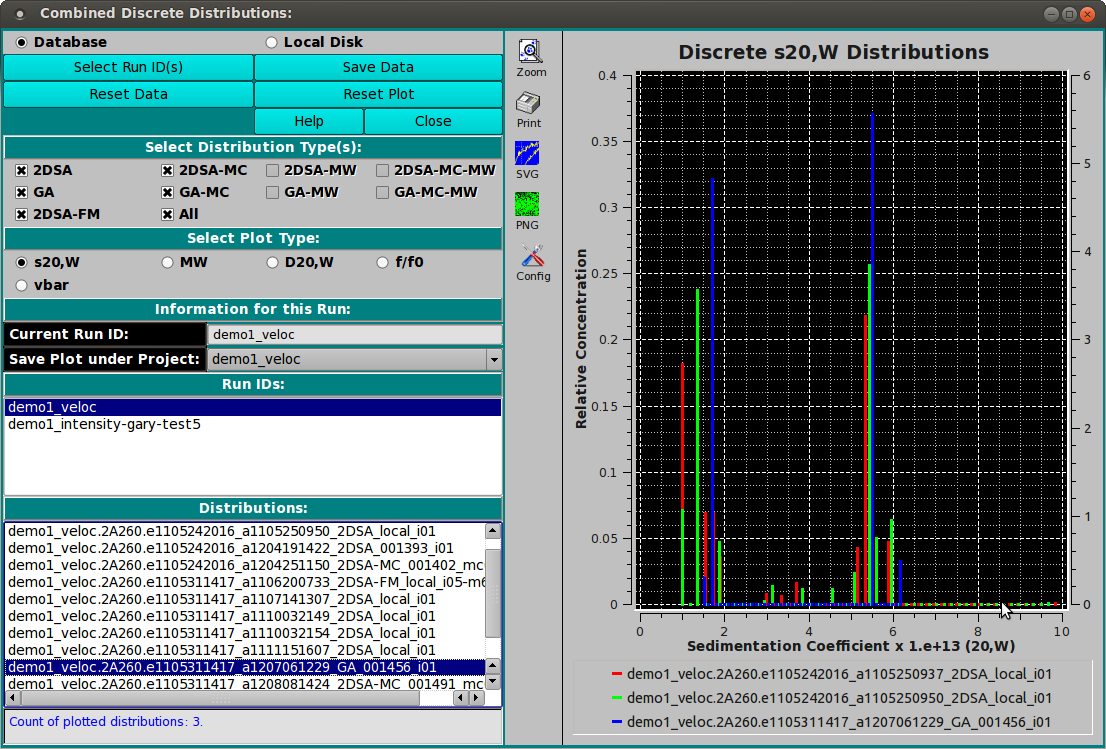
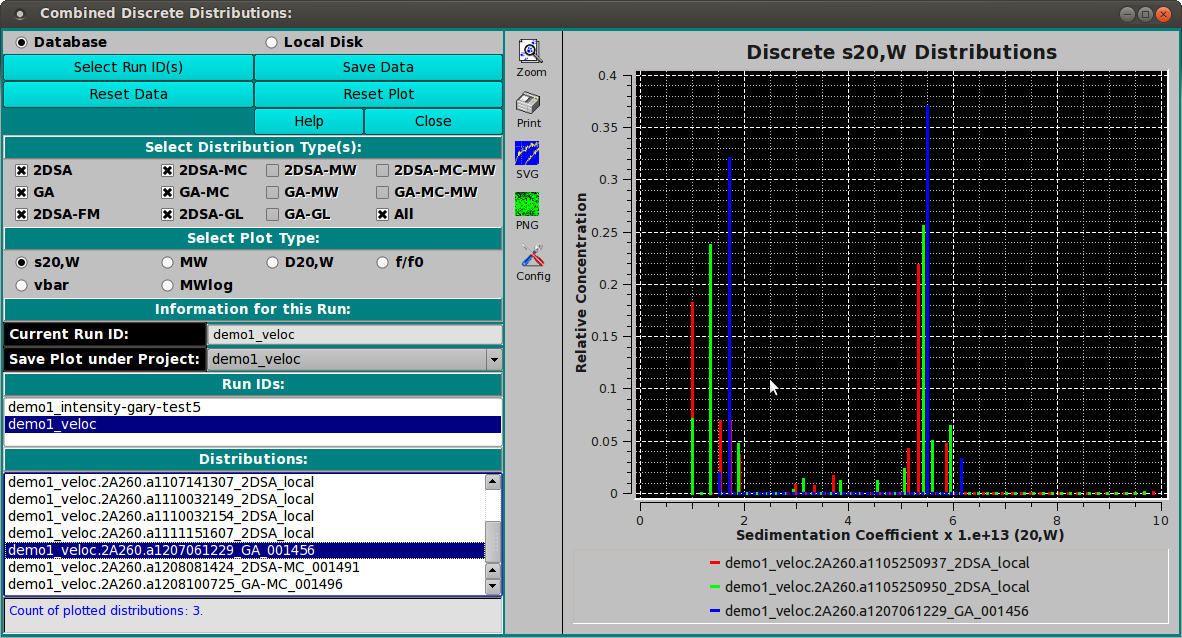
some fixes and add of Log-MW
git-svn-id: svn://bcf2.uthscsa.edu/ultrascan3/trunk@1408 0b344138-67e3-44e0-be2b-e1ba3e4701c6

diff --git a/programs/us_ddist_combine/us_ddist_combine.cpp b/programs/us_ddist_combine/us_ddist_combine.cpp
@@ -80,6 +80,8 @@ US_DDistr_Combine::US_DDistr_Combine() : US_Widgets()
    QLayout* lo_gamw     = us_checkbox( tr( "GA-MW" ),      ck_gamw,     false );
    QLayout* lo_gamcmw   = us_checkbox( tr( "GA-MC-MW" ),   ck_gamcmw,   false );
    QLayout* lo_2dsafm   = us_checkbox( tr( "2DSA-FM" ),    ck_2dsafm,   false );
+   QLayout* lo_2dsagl   = us_checkbox( tr( "2DSA-GL" ),    ck_2dsagl,   false );
+   QLayout* lo_gagl     = us_checkbox( tr( "GA-GL" ),      ck_gagl,     false );
    QLayout* lo_dtall    = us_checkbox( tr( "All" ),        ck_dtall,    false );
 
    QButtonGroup* sel_plt  = new QButtonGroup( this );
@@ -88,11 +90,13 @@ US_DDistr_Combine::US_DDistr_Combine() : US_Widgets()
    QGridLayout* lo_pltDw  = us_radiobutton( tr( "D20,W" ), rb_pltDw,    false );
    QGridLayout* lo_pltff0 = us_radiobutton( tr( "f/f0"  ), rb_pltff0,   false );
    QGridLayout* lo_pltvb  = us_radiobutton( tr( "vbar"  ), rb_pltvb,    false );
+   QGridLayout* lo_pltMWl = us_radiobutton( tr( "MWlog" ), rb_pltMWl,   false );
    sel_plt->addButton( rb_pltsw,  0 );
    sel_plt->addButton( rb_pltMW,  1 );
    sel_plt->addButton( rb_pltDw,  2 );
    sel_plt->addButton( rb_pltff0, 3 );
    sel_plt->addButton( rb_pltvb,  4 );
+   sel_plt->addButton( rb_pltMWl, 5 );
 
    le_runid      = us_lineedit( "(current run ID)", -1, true );
    cmb_svproj    = us_comboBox();
@@ -120,13 +124,16 @@ US_DDistr_Combine::US_DDistr_Combine() : US_Widgets()
    leftLayout->addLayout( lo_gamw,      row,   4, 1, 2 );
    leftLayout->addLayout( lo_gamcmw,    row++, 6, 1, 2 );
    leftLayout->addLayout( lo_2dsafm,    row,   0, 1, 2 );
-   leftLayout->addLayout( lo_dtall,     row++, 2, 1, 6 );
+   leftLayout->addLayout( lo_2dsagl,    row,   2, 1, 2 );
+   leftLayout->addLayout( lo_gagl,      row,   4, 1, 2 );
+   leftLayout->addLayout( lo_dtall,     row++, 6, 1, 6 );
    leftLayout->addWidget( lb_plottype,  row++, 0, 1, 8 );
    leftLayout->addLayout( lo_pltsw,     row,   0, 1, 2 );
    leftLayout->addLayout( lo_pltMW,     row,   2, 1, 2 );
    leftLayout->addLayout( lo_pltDw,     row,   4, 1, 2 );
    leftLayout->addLayout( lo_pltff0,    row++, 6, 1, 2 );
-   leftLayout->addLayout( lo_pltvb,     row++, 0, 1, 8 );
+   leftLayout->addLayout( lo_pltvb,     row,   0, 1, 8 );
+   leftLayout->addLayout( lo_pltMWl,    row++, 2, 1, 8 );
    leftLayout->addWidget( lb_runinfo,   row++, 0, 1, 8 );
    leftLayout->addWidget( lb_runid,     row,   0, 1, 3 );
    leftLayout->addWidget( le_runid,     row++, 3, 1, 5 );
@@ -189,6 +196,8 @@ US_DDistr_Combine::US_DDistr_Combine() : US_Widgets()
             this,        SLOT(   changedPlotX( bool ) ) );
    connect( rb_pltvb,    SIGNAL( toggled     ( bool ) ),
             this,        SLOT(   changedPlotX( bool ) ) );
+   connect( rb_pltMWl,   SIGNAL( toggled     ( bool ) ),
+            this,        SLOT(   changedPlotX( bool ) ) );
 
    connect( lw_runids,   SIGNAL( currentRowChanged( int ) ),
             this,        SLOT(   runid_select(      int ) ) );
@@ -200,11 +209,9 @@ US_DDistr_Combine::US_DDistr_Combine() : US_Widgets()
          tr( "Sedimentation Coefficient x 1e+13 (corr. for 20,W)" ),
          tr( "Relative Concentration" ) );
 
-   data_plot1->setMinimumSize( 540, 400 );
-   data_plot1->enableAxis  ( QwtPlot::yRight, true );
+   data_plot1->setMinimumSize( 560, 400 );
    data_plot1->setAxisScale( QwtPlot::xBottom, 1.0,  10.0 );
    data_plot1->setAxisScale( QwtPlot::yLeft,   0.0, 100.0 );
-   data_plot1->setAxisScale( QwtPlot::yRight,  0.0,   6.0 );
    QwtPlotGrid* grid = us_grid( data_plot1 );
    grid->enableXMin( true );
    grid->enableYMin( true );
@@ -241,7 +248,7 @@ US_DDistr_Combine::US_DDistr_Combine() : US_Widgets()
    te_status  ->setMaximumHeight( ( hh * 3 ) / 2 );
 
    adjustSize();
-   resize( 1160, 580 );
+   resize( 1180, 580 );
    reset_data();
 }
 
@@ -295,29 +302,20 @@ if(dbg_level>0)
    }
 
    for ( int ii = 0; ii < nrunids; ii++ )
-   {
+   {  // Add run IDs to list and to project combo box
       lw_runids->addItem( runids[ ii ] );
       cmb_svproj->addItem( runids[ ii ] );
    }
 
    cmb_svproj->addItem( "All" );
-
-   int nlitems = lw_runids->count();
    le_runid->setText( runids[ 0 ] );
-
-   if ( nrunids == nlitems )
-   {
-      adjustSize();
-   }
-
    pb_resetd->setEnabled( true );
-
    QStringList methods;
+
    for ( int ii = 0; ii < distros.count(); ii++ )
-   {
+   {  // Build a list of unique methods of distros
       QString method = distros[ ii ].mdescr.section( ".", -1, -1 )
                                            .section( "_", -3, -3 );
-
       if ( ! methods.contains( method ) )
          methods << method;
    }
@@ -331,6 +329,8 @@ if(dbg_level>0)
    bool hv_gamw     = methods.contains( "GA-MW"      );
    bool hv_gamcmw   = methods.contains( "GA-MC-MW"   );
    bool hv_2dsafm   = methods.contains( "2DSA-FM"    );
+   bool hv_2dsagl   = methods.contains( "2DSA-GL"    );
+   bool hv_gagl     = methods.contains( "GA-GL"      );
    bool hv_dtall    = methods.size() > 0;
 
    ck_2dsa    ->setEnabled( hv_2dsa     );
@@ -342,6 +342,8 @@ if(dbg_level>0)
    ck_gamw    ->setEnabled( hv_gamw     );
    ck_gamcmw  ->setEnabled( hv_gamcmw   );
    ck_2dsafm  ->setEnabled( hv_2dsafm   );
+   ck_2dsagl  ->setEnabled( hv_2dsagl   );
+   ck_gagl    ->setEnabled( hv_gagl     );
    ck_dtall   ->setEnabled( hv_dtall    );
 
    ck_2dsa    ->setChecked( hv_2dsa     );
@@ -353,6 +355,8 @@ if(dbg_level>0)
    ck_gamw    ->setChecked( hv_gamw     );
    ck_gamcmw  ->setChecked( hv_gamcmw   );
    ck_2dsafm  ->setChecked( hv_2dsafm   );
+   ck_2dsagl  ->setChecked( hv_2dsagl   );
+   ck_gagl    ->setChecked( hv_gagl     );
    ck_dtall   ->setChecked( hv_dtall    );
 }
 
@@ -431,6 +435,11 @@ DbgLv(1) << "pDa:  titleY" << titleY;
    {
       titleP = tr( "Discrete Vbar Distributions" );
       titleX = tr( "Vbar (Specific Density)" );
+   }
+   else if ( rb_pltMWl->isChecked() )
+   {
+      titleP = tr( "Discrete Log of Molecular Weight Distributions" );
+      titleX = tr( "Molecular Weight (Log, Dalton)" );
    }
 DbgLv(1) << "pDa:  titleP" << titleP;
 DbgLv(1) << "pDa:  titleX" << titleX;
@@ -512,6 +521,12 @@ void US_DDistr_Combine::save( void )
       sanode1       = "combo-distrib-vbar";
       sanode2       = "combo-vcdat-vbar";
       sanode3       = "combo-listincl-vbar";
+   }
+   else if ( xtype == 5 )
+   {
+      sanode1       = "combo-distrib-mwl";
+      sanode2       = "combo-vcdat-mwl";
+      sanode3       = "combo-listincl-mwl";
    }
    QString fnamsvg  = annode + "." + trnode + "." + sanode1 + ".svg"; 
    QString fnampng  = annode + "." + trnode + "." + sanode1 + ".png"; 
@@ -686,10 +701,12 @@ DbgLv(1) << "RunIDSel:runID" << runID << "distrsize" << distros.size();
       if ( ck_2dsamw  ->isChecked() )  methods << "2DSA-MW";
       if ( ck_2dsamcmw->isChecked() )  methods << "2DSA-MC-MW";
       if ( ck_ga      ->isChecked() )  methods << "GA";
-      if ( ck_gamc    ->isChecked() )  methods << "GA_MC";
+      if ( ck_gamc    ->isChecked() )  methods << "GA-MC";
       if ( ck_gamw    ->isChecked() )  methods << "GA-MW";
-      if ( ck_gamcmw  ->isChecked() )  methods << "GA-MC_MW";
+      if ( ck_gamcmw  ->isChecked() )  methods << "GA-MC-MW";
       if ( ck_2dsafm  ->isChecked() )  methods << "2DSA-FM";
+      if ( ck_2dsagl  ->isChecked() )  methods << "2DSA-GL";
+      if ( ck_gagl    ->isChecked() )  methods << "GA-GL";
    }
 
    lw_models ->clear();
@@ -707,7 +724,7 @@ DbgLv(1) << "RunIDSel:  ii runID" << ii << distros[ii].runID;
             if ( ! methods.contains( meth ) )  continue;
          }
 
-         lw_models ->addItem( mdesc );
+         lw_models ->addItem( distribID( mdesc ) );
       }
    }
 
@@ -717,7 +734,7 @@ DbgLv(1) << "RunIDSel:  ii runID" << ii << distros[ii].runID;
    }
 }
 
-// Triple selected
+// Model distribution selected
 void US_DDistr_Combine::model_select( int row )
 {
 DbgLv(1) << "ModelSel:row" << row;
@@ -793,32 +810,22 @@ void US_DDistr_Combine::possibleColors()
    return;
 }
 
-// Return an expanded version ("1 / A / 260") of a triple string ("1A260")
-QString US_DDistr_Combine::expandedTriple( QString ctriple )
+// Return a distribution ID string that is a shortened model description
+QString US_DDistr_Combine::distribID( QString mdescr )
 {
-   QString etriple = ctriple;
+   QString runID   = mdescr.section( ".",  0, -3 );
+           runID   = runID.length() < 13 ? runID : runID.left( 12 ) + "(++)";
+   QString triple  = mdescr.section( ".", -2, -2 );
+   QString iterID  = mdescr.section( ".", -1, -1 );
+   QString andate  = iterID.section( "_",  1,  1 );
+   QString method  = iterID.section( "_",  2,  2 );
+           iterID  = ( method != "2DSA-FM" )
+                   ? iterID.section( "_", -2, -2 )
+                   : iterID.section( "_", -1, -1 );
+   QString distrID = runID + "." + triple + "." + andate
+                           + "_" + method + "_" + iterID;
 
-   if ( ! etriple.contains( " / " ) )
-      etriple = etriple.left( 1 ) + " / " +
-                etriple.mid( 1, 1 ) + " / " +
-                etriple.mid( 2 );
-
-   return etriple;
-}
-
-// Return a collapsed version ("1A260") of a triple string ("1 / A / 260")
-QString US_DDistr_Combine::collapsedTriple( QString etriple )
-{
-   QString ctriple = etriple;
-
-   if ( ctriple.contains( " / " ) )
-      ctriple = ctriple.replace( " / ", "" ).simplified();
-   else if ( ctriple.contains( "/" ) )
-      ctriple = ctriple.replace( "/",   "" ).simplified();
-   else if ( ctriple.contains( "." ) )
-      ctriple = ctriple.replace( ".",   "" ).simplified();
-
-   return ctriple;
+   return distrID;
 }
 
 // Reset Disk_DB control whenever data source is changed in any dialog
@@ -830,6 +837,7 @@ DbgLv(1) << "Upd_Dk_Db isDB" << isDB;
    reset_data();
 }
 
+// Fill in a distribution description object with model and values
 void US_DDistr_Combine::fill_in_desc( DistrDesc& ddesc, int distx )
 {
    if ( ddesc.xvals.size() > 0  &&
@@ -900,6 +908,7 @@ DbgLv(1) << "FID:  (3)ncomps" << ncomps;
       else if ( xtype == 2 )  xval = ddesc.model.components[ jj ].D;
       else if ( xtype == 3 )  xval = ddesc.model.components[ jj ].f_f0;
       else if ( xtype == 4 )  xval = ddesc.model.components[ jj ].vbar20;
+      else if ( xtype == 5 )  xval = log( ddesc.model.components[ jj ].mw );
 
       mxvals << xval;
    }
@@ -984,11 +993,9 @@ void US_DDistr_Combine::write_data( QString& dataFile, QString& listFile,
    {  // Accumulate long descriptions and build header line
       maxnvl     = qMax( maxnvl, pdistrs[ ii ].xvals.size() );
       QString pd = pdisIDs[ ii ];
-      pdlong << pd;
-      
-      QString rd = pd.section( ".",  0, -2 );
-      QString ad = pd.section( ".", -1, -1 ).section( "_", -4, -3 );
-      pd         = rd + "." + ad;
+
+      pdlong << pdistrs[ ii ].mdescr;
+
 DbgLv(1) << "WrDa:  plot" << ii << "pd" << pd;
       line      += pd + ".X " + pd + ".Y"; // X,Y header entries for contributor
       if ( ii < ( nplots - 1 ) )
@@ -1002,8 +1009,8 @@ DbgLv(1) << "WrDa: maxnvl" << maxnvl << "nplots" << nplots;
    char  valfm1[] = "%12.5f %10.5f";
    char  valfm2[] = "%13.4e %9.5f";
    char* valfmt   = valfm1;
-   if ( xtype == 1  ||  xtype == 2 )
-         valfmt   = valfm2;                // Formatting for "MW" or "D"
+   if ( xtype == 1  ||  xtype == 2  || xtype == 5 )
+         valfmt   = valfm2;                // Formatting for "MW"/"D"/"MWlog"
 
    for ( int jj = 0; jj < maxnvl; jj++ )
    {  // Build and write xvalue+concentration data line
@@ -1121,7 +1128,7 @@ int US_DDistr_Combine::distro_by_descr( QString& mdesc )
 
    for ( int ii = 0; ii < distros.count(); ii++ )
    {
-      if ( mdesc == distros[ ii ].mdescr )
+      if ( mdesc == distribID( distros[ ii ].mdescr ) )
       {
          index  = ii;
          break;
@@ -1238,6 +1245,7 @@ DbgLv(1) << "changedPlotX" << on_state;
    bool x_is_Dw    = rb_pltDw ->isChecked();
    bool x_is_ff0   = rb_pltff0->isChecked();
    bool x_is_vb    = rb_pltvb ->isChecked();
+   bool x_is_MWl   = rb_pltMWl->isChecked();
         xtype      = 0;
 
    if ( x_is_sw )
@@ -1270,6 +1278,12 @@ DbgLv(1) << "  PX=Vbar";
       xtype           = 4;
    }
 
+   else if ( x_is_MWl )
+   {
+DbgLv(1) << "  PX=Molec.Wt.log";
+      xtype           = 5;
+   }
+
    int npdis    = pdistrs.size();
    if ( npdis > 0 )
    {  // Re-do plot distros to account for X-type change
@@ -1299,7 +1313,7 @@ DbgLv(1) << "  PX=Vbar";
          fill_in_desc( *pddist, ii );
 
          pdistrs << *pddist;
-         pdisIDs << pddist->mdescr;
+         pdisIDs << distribID( pddist->mdescr );
       }
 
       plot_data();

diff --git a/programs/us_ddist_combine/us_ddist_combine.h b/programs/us_ddist_combine/us_ddist_combine.h
@@ -32,7 +32,7 @@ class US_DDistr_Combine : public US_Widgets
             QVector< double >  yvals;    // Distrib. Y values (concentrations)
             QColor             color;    // Curve color
             int                iters;    // Iterations flag (>0 means MC)
-            int                xtype;    // X type  (0-4 for x,MW,D,ff0,vbar)
+            int                xtype;    // X type  (0-5 for x,MW,D,ff0,vb,MWl)
             US_Model           model;    // The model
 
             bool operator== ( const DistrDesc& ddiscr )
@@ -79,10 +79,12 @@ class US_DDistr_Combine : public US_Widgets
       QCheckBox*     ck_2dsamw;
       QCheckBox*     ck_2dsamcmw;
       QCheckBox*     ck_2dsafm;
+      QCheckBox*     ck_2dsagl;
       QCheckBox*     ck_ga;
       QCheckBox*     ck_gamc;
       QCheckBox*     ck_gamw;
       QCheckBox*     ck_gamcmw;
+      QCheckBox*     ck_gagl;
       QCheckBox*     ck_dtall;
 
       QRadioButton*  rb_pltsw;
@@ -90,6 +92,7 @@ class US_DDistr_Combine : public US_Widgets
       QRadioButton*  rb_pltMW;
       QRadioButton*  rb_pltff0;
       QRadioButton*  rb_pltvb;
+      QRadioButton*  rb_pltMWl;
 
       QTextEdit*     te_status;
 
@@ -125,8 +128,7 @@ class US_DDistr_Combine : public US_Widgets
       void update_disk_db ( bool );
       void fill_in_desc   ( DistrDesc&, int );
       void write_data     ( QString&, QString&, int& );
-      QString expandedTriple ( QString );
-      QString collapsedTriple( QString );
+      QString distribID   ( QString );
       int  reportDocsFromFiles( QString&, QString&, QStringList&,
                                 US_DB2*, int&, QString& );
       void allMethodChanged  ( int );
